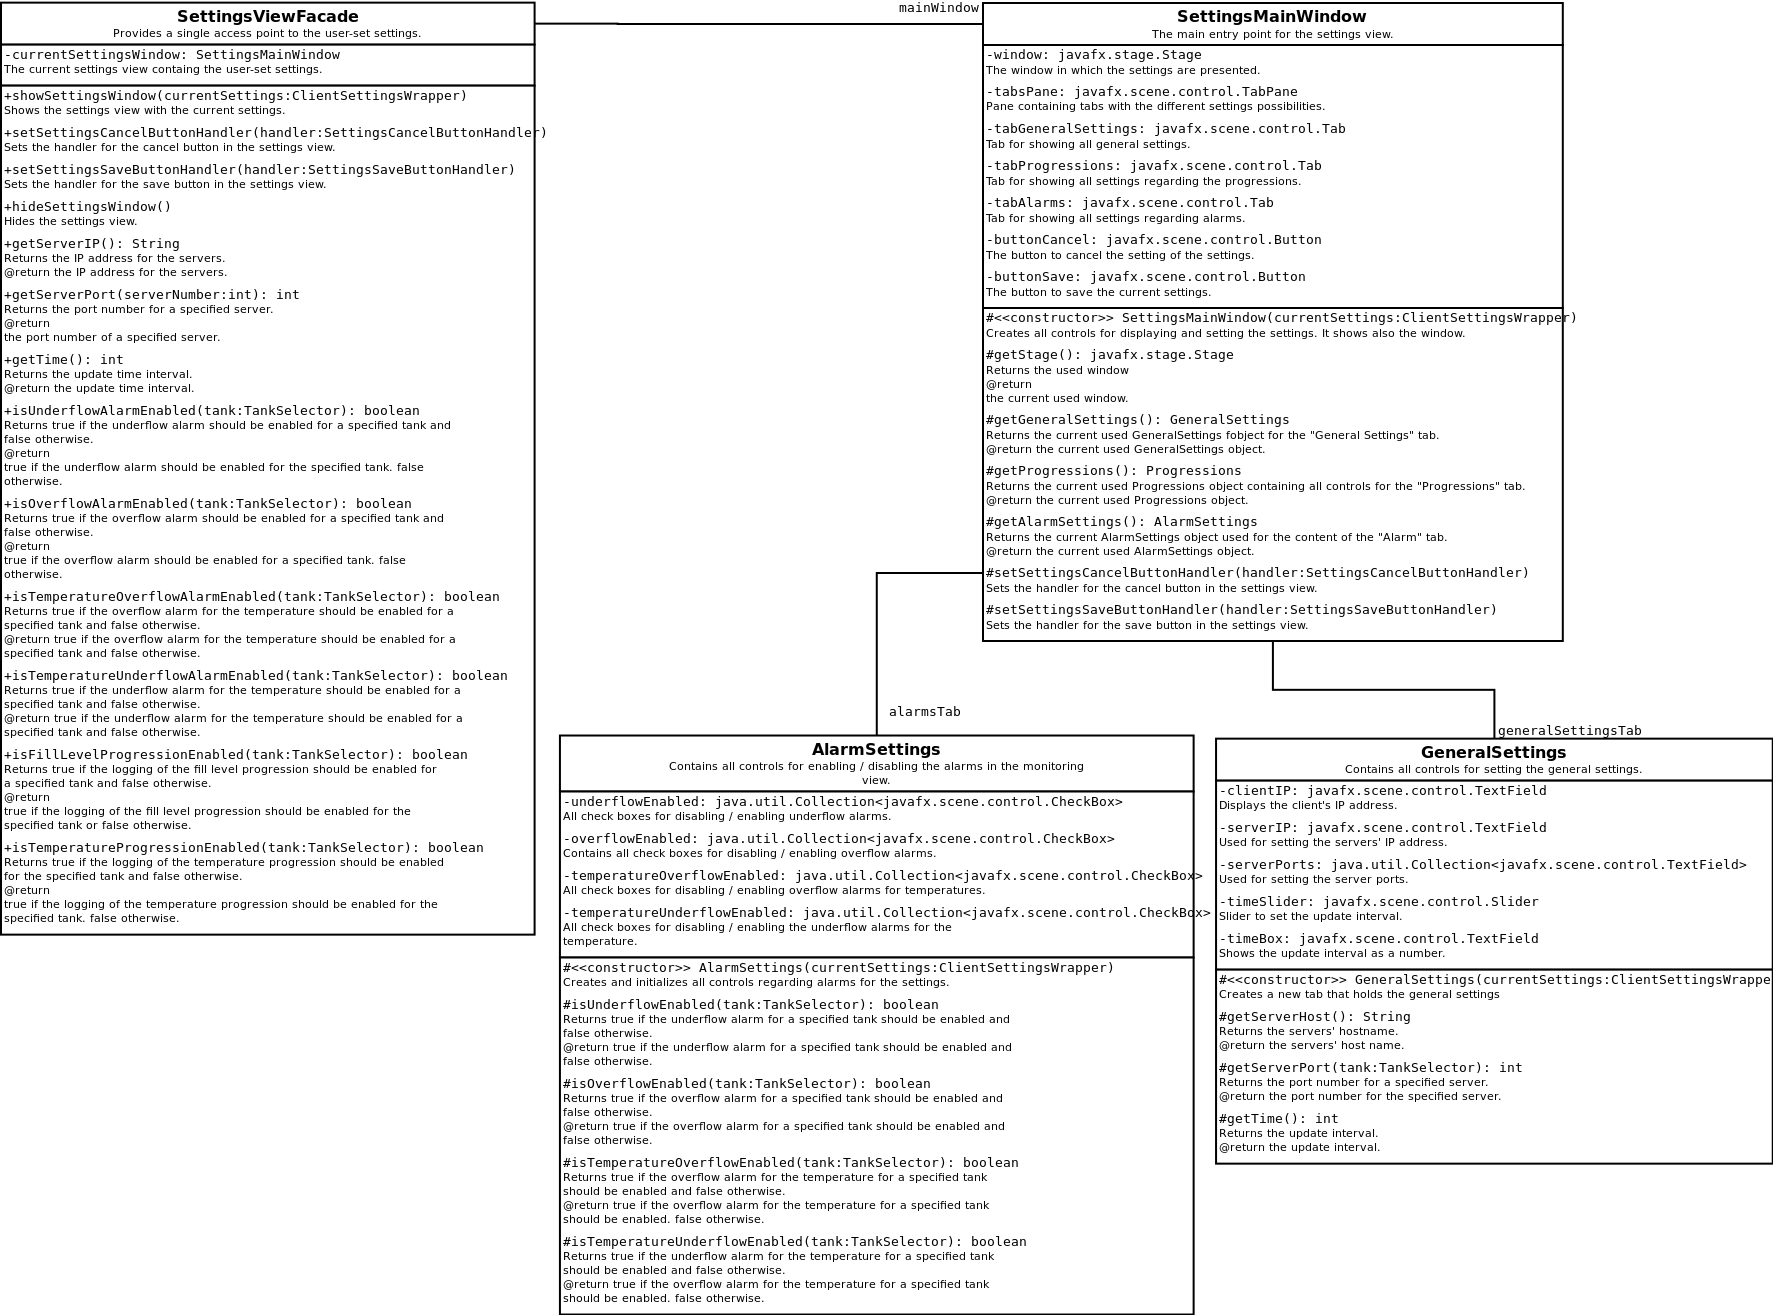
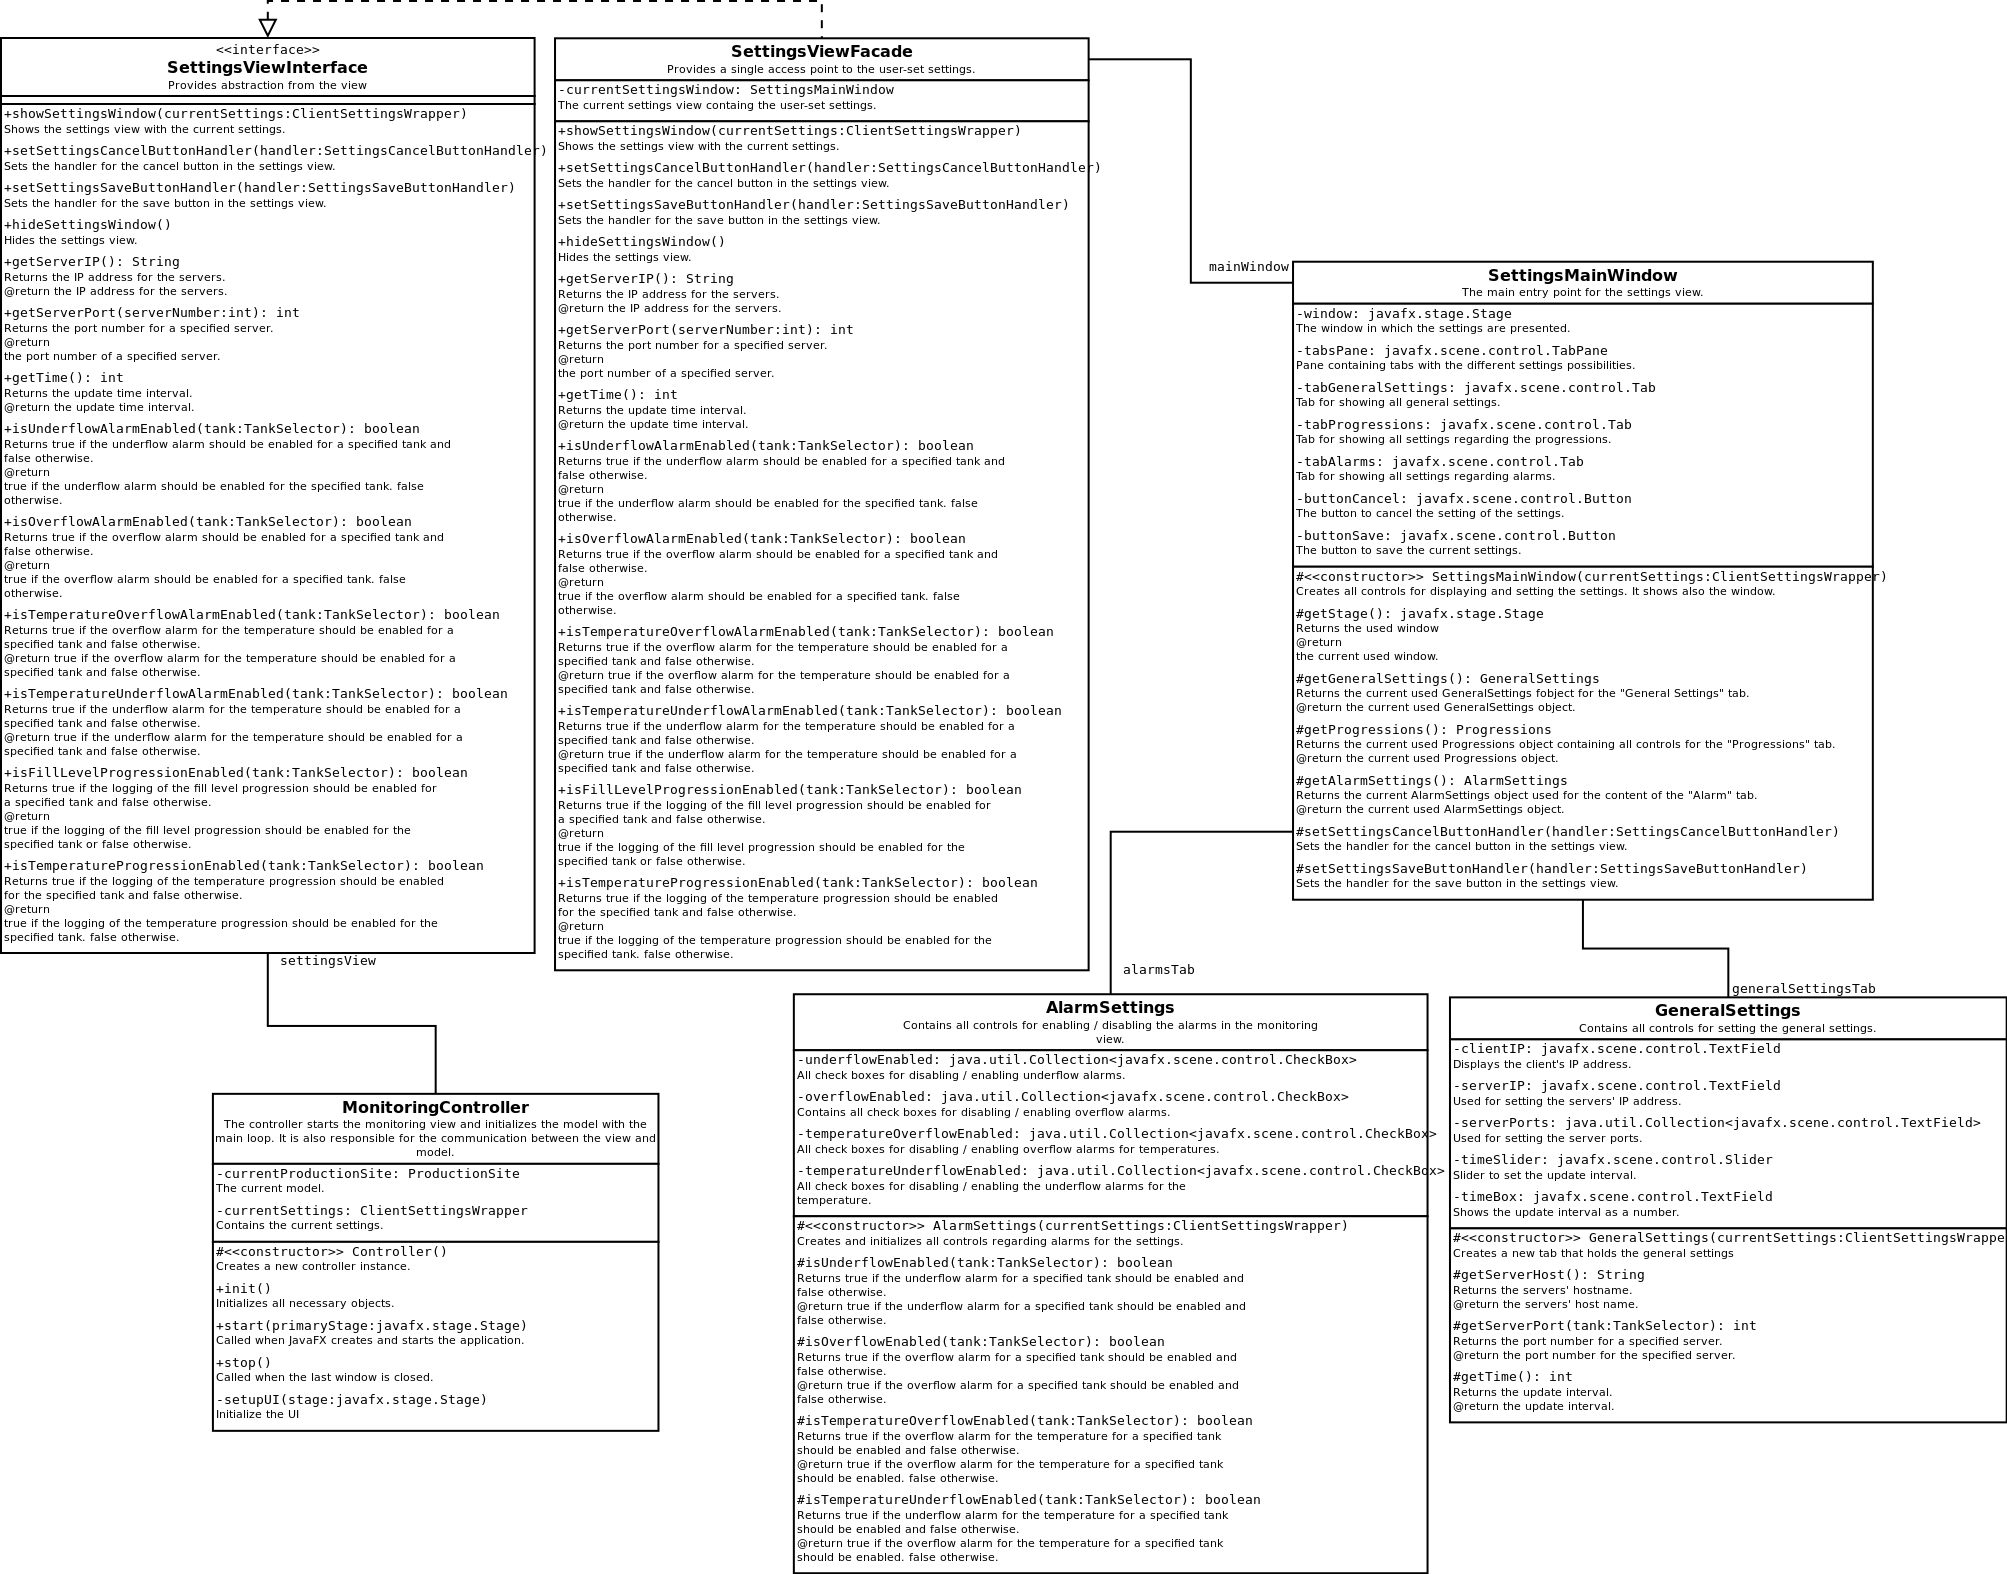
[design] Added more screenshots

Changed region(s): [[0.0, 0.0, 1.0, 1.0], [0.6514, 0.9977, 0.7135, 1.0]]

diff --git a/docs/Design.tex b/docs/Design.tex
@@ -245,7 +245,7 @@ Dabei ist \emph{MixingStrategy} das Interface, dass die Strategie definiert, und
 benutzt. Momentan ist nur eine konkrete Strategie implementiert, und zwar die \emph{SubtractiveMixingStrategy}.
 
 \pagebreak
-\subsection{Beobachter-Muster}
+\subsection{Beobachter-Muster: Observer bei Elementen des Models}
 \begin{figure}[H]
   \centering
   \includegraphics[scale=0.35]{design/pattern-screenshots/observer-Model.png}
@@ -267,6 +267,11 @@ das Auslösen von Alarmen zu informieren. Deswegen ist die Klasse \emph{Abstract
 
 \pagebreak
 \subsection{Fassaden-Muster: Views der Überwachungskonsole}
+\begin{figure}[H]
+  \centering
+  \includegraphics[scale=0.22]{design/pattern-screenshots/fascade-SettingsView.png}
+  \caption{Ausschnitt aus dem Klassendiagramm: Fassade des Views der Überwachungskonsole}
+\end{figure}
 Jeder Zugriff auf das Haupt- oder Einstellungsfenster der Überwachungskonsole von außerhalb der Views erfolgt über jeweils eine eigene, konkrete Fassade: \emph{MonitoringViewFacade} für das Hauptfenster und \emph{SettingsViewFacade} für das Einstellungsfenster. Beide Fassaden leiten sich von den eigentlichen Fassaden, die in Form von Interfaces (\emph{MonitoringViewInterface} und \emph{SettingsViewInterface}) vorliegen, ab.
 
 Die Fassaden an sich ermöglichen zunächst einen einheitlichen und zentralen Zugriff auf die notwendigsten Funktionen und Werte der Views, die außerhalb benötigt werden. Somit bleiben die Entwurfs- und Implementierungsdetails der Views (Aufbau, verwendete GUI-Komponenten) zum größten Teil verborgen. Gleichzeitig können die Views nicht beliebig modifiziert werden, womit gewährleistet wird, dass sie genau das anzeigen, was sie anzeigen sollen.
@@ -275,10 +280,23 @@ Vor allem die Interfaces sorgen für eine stärkere Trennung zwischen View und C
 
 \pagebreak
 \subsection{Befehlsmuster: ButtonHandler im Controller der Überwachungskonsole}
-\subsection{Beobachter-Muster}
-Haupt- und Einstellungsfenster der Überwachungskonsole beinhalten Knöpfe, mit denen der Benutzer verschiedene Ereignisse auslösen kann. Zur Behandlung dieser Ereignisse wird das Befehlsmuster genutzt, das JavaFX bereits unterstützt. So handelt es sich beim Interface \emph{javafx.event.EventHandler<? extends javafx.event.Event>} um den abstrakten Befehl, der Bestandteil der Knöpfe von JavaFX (konkret hier: \emph{javafx.scene.control.Button} bzw. \emph{javafx.scene.control.MenuButton}) ist. Die konkreten Befehle stellen die \emph{ButtonHandler}-Klassen im Controller dar, die das Interface implementieren und über ihre Konstruktoren die Empfänger der Ereignisbehandlung erhalten.
+\begin{figure}[H]
+  \centering
+  \includegraphics[scale=0.33]{design/pattern-screenshots/command-ButtonHandler.png}
+  \caption{Ausschnitt aus dem Klassendiagramm: ButtonHandler der Überwachungskonsole}
+\end{figure}
+Haupt- und Einstellungsfenster der Überwachungskonsole beinhalten Knöpfe, mit denen der Benutzer verschiedene
+Ereignisse auslösen kann. Zur Behandlung dieser Ereignisse wird das Befehlsmuster genutzt, das JavaFX bereits
+unterstützt. So handelt es sich beim Interface \emph{javafx.event.EventHandler<? extends javafx.event.Event>}
+um den abstrakten Befehl, der Bestandteil der Knöpfe von JavaFX (konkret hier: \emph{javafx.scene.control.Button} bzw. 
+\emph{javafx.scene.control.\\MenuButton}) ist. Die konkreten Befehle stellen die \emph{ButtonHandler}-Klassen
+im Controller dar, die das Interface implementieren und über ihre Konstruktoren die Empfänger der
+Ereignisbehandlung erhalten.
 
-Die Verwendung des Befehlsmusters ermöglicht es, ein bestimmtes Ereignis in einem dafür vorgesehenen Handler zu bearbeiten und dieses damit in einem Objekt zu kapseln. Jeder Handler lässt sich eindeutig einer Aufgabe und einem Ereignis zuordnen, sodass keine Verschränkung zwischen zwei verschiedenen Handlern auftritt. Außerdem lässt sich leichter ein weiterer Handler hinzufügen oder ein bestehender Handler austauschen.
+Die Verwendung des Befehlsmusters ermöglicht es, ein bestimmtes Ereignis in einem dafür vorgesehenen Handler
+zu bearbeiten und dieses damit in einem Objekt zu kapseln. Jeder Handler lässt sich eindeutig einer Aufgabe
+und einem Ereignis zuordnen, sodass keine Verschränkung zwischen zwei verschiedenen Handlern auftritt.
+Außerdem lässt sich leichter ein weiterer Handler hinzufügen oder ein bestehender Handler austauschen.
 
 \pagebreak
 \subsection{Singleton-Muster: Translator}
